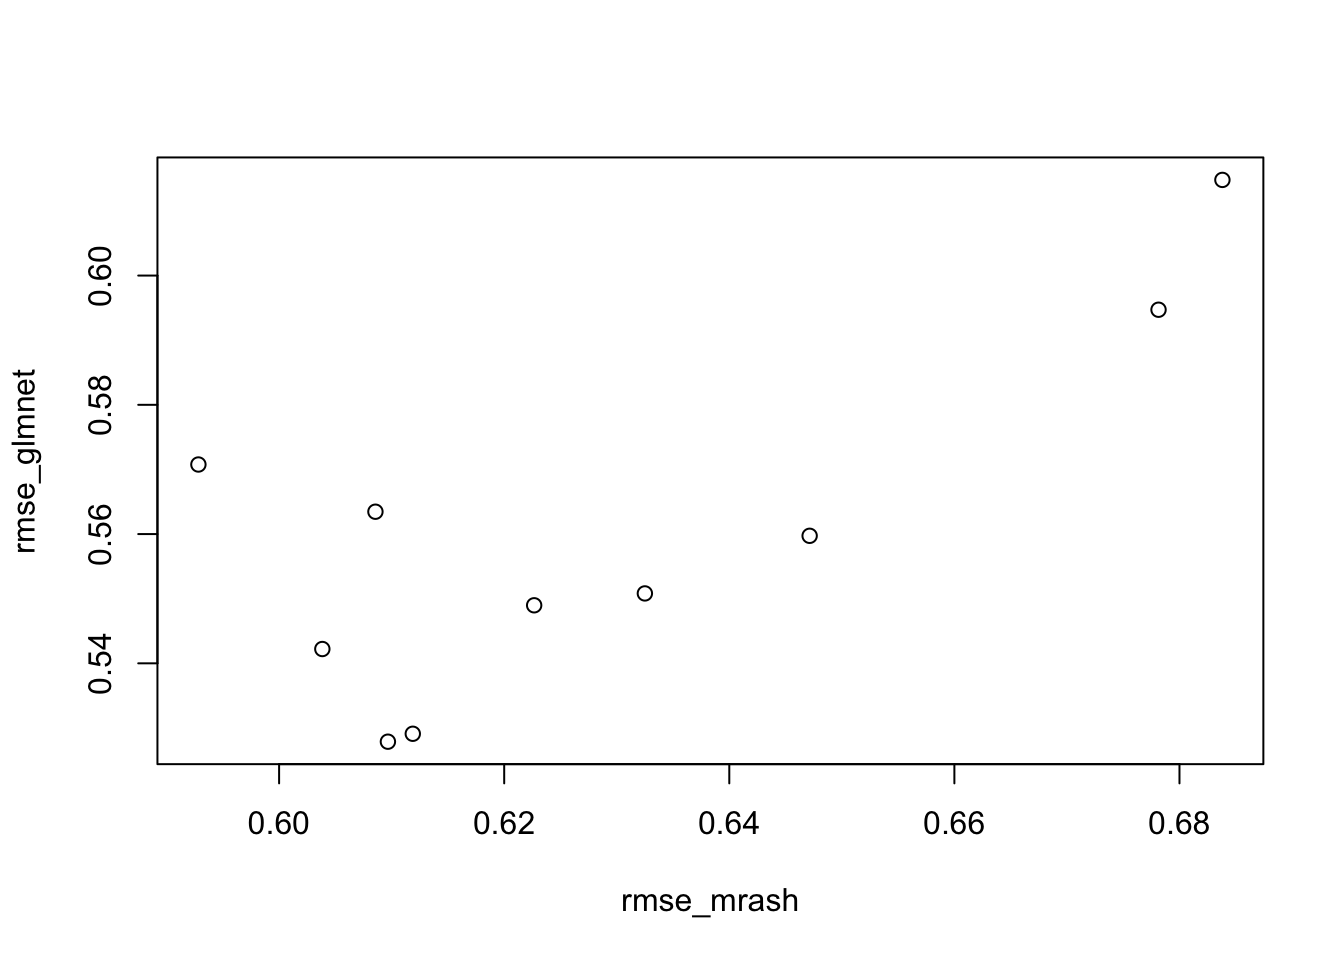
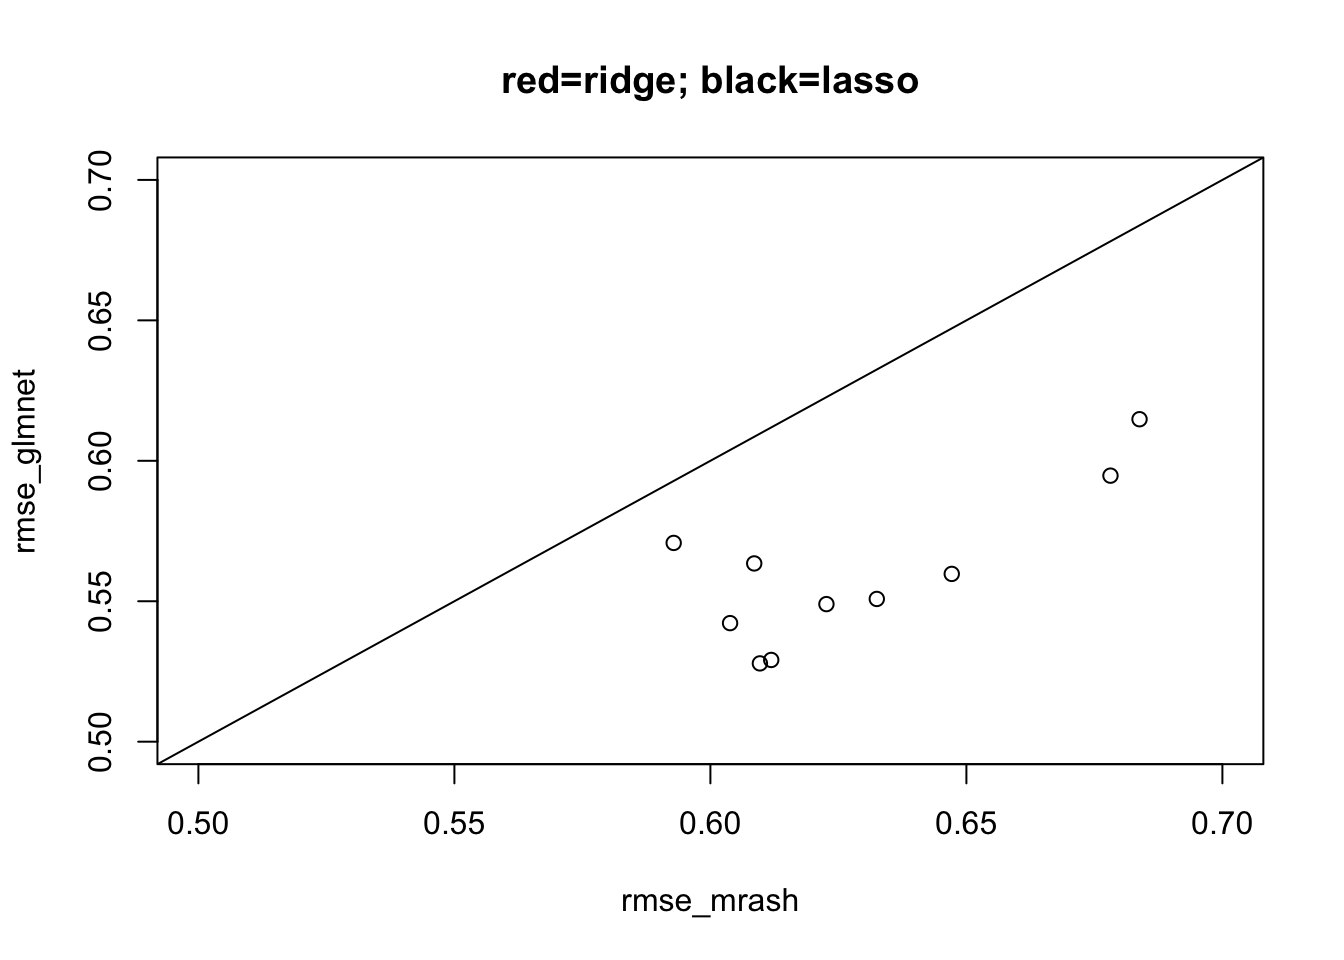
Build site.

diff --git a/docs/mr_ash_vs_lasso.html b/docs/mr_ash_vs_lasso.html
@@ -401,7 +401,7 @@ div.tocify {
 <div class="tab-content">
 <div id="summary" class="tab-pane fade in active">
 <p>
-<strong>Last updated:</strong> 2020-06-12
+<strong>Last updated:</strong> 2020-06-19
 </p>
 <p>
 <strong>Checks:</strong> <span class="glyphicon glyphicon-ok text-success" aria-hidden="true"></span> 7 <span class="glyphicon glyphicon-exclamation-sign text-danger" aria-hidden="true"></span> 0
@@ -492,16 +492,16 @@ This reproducible <a href="http://rmarkdown.rstudio.com">R Markdown</a> analysis
 <div class="panel panel-default">
 <div class="panel-heading">
 <p class="panel-title">
-<a data-toggle="collapse" data-parent="#workflowr-checks" href="#strongRepositoryversionstrongahrefhttpsgithubcomstephens999misctree94bd508454ee1f81288ac05297880aae652a5314targetblank94bd508a"> <span class="glyphicon glyphicon-ok text-success" aria-hidden="true"></span> <strong>Repository version:</strong> <a href="https://github.com/stephens999/misc/tree/94bd508454ee1f81288ac05297880aae652a5314" target="_blank">94bd508</a> </a>
+<a data-toggle="collapse" data-parent="#workflowr-checks" href="#strongRepositoryversionstrongahrefhttpsgithubcomstephens999misctreef8037ebc03f8b09bd3cfd9d856967dafde4bf586targetblankf8037eba"> <span class="glyphicon glyphicon-ok text-success" aria-hidden="true"></span> <strong>Repository version:</strong> <a href="https://github.com/stephens999/misc/tree/f8037ebc03f8b09bd3cfd9d856967dafde4bf586" target="_blank">f8037eb</a> </a>
 </p>
 </div>
[2 lines of base64/hex data omitted]
 <div class="panel-body">
 <p>
 Great! You are using Git for version control. Tracking code development and connecting the code version to the results is critical for reproducibility.
 </p>
 <p>
-The results in this page were generated with repository version <a href="https://github.com/stephens999/misc/tree/94bd508454ee1f81288ac05297880aae652a5314" target="_blank">94bd508</a>. See the <em>Past versions</em> tab to see a history of the changes made to the R Markdown and HTML files.
+The results in this page were generated with repository version <a href="https://github.com/stephens999/misc/tree/f8037ebc03f8b09bd3cfd9d856967dafde4bf586" target="_blank">f8037eb</a>. See the <em>Past versions</em> tab to see a history of the changes made to the R Markdown and HTML files.
 </p>
 <p>
 Note that you need to be careful to ensure that all relevant files for the analysis have been committed to Git prior to generating the results (you can use <code>wflow_publish</code> or <code>wflow_git_commit</code>). workflowr only checks the R Markdown file, but you know if there are other scripts or data files that it depends on. Below is the status of the Git repository when the results were generated:
@@ -514,6 +514,7 @@ Ignored files:
     Ignored:    analysis/.RData
     Ignored:    analysis/.Rhistory
     Ignored:    analysis/ALStruct_cache/
+    Ignored:    analysis/figure/
     Ignored:    data/.Rhistory
     Ignored:    data/pbmc/
 
@@ -540,6 +541,7 @@ Untracked files:
     Untracked:  analysis/mash_bhat_z.Rmd
     Untracked:  analysis/mash_ieqtl_permutations.Rmd
     Untracked:  analysis/mixsqp.Rmd
+    Untracked:  analysis/mr.ash_lasso_init.Rmd
     Untracked:  analysis/mr.mash.test.Rmd
     Untracked:  analysis/mr_ash_modular.Rmd
     Untracked:  analysis/mr_ash_parameterization.Rmd
@@ -552,6 +554,7 @@ Untracked files:
     Untracked:  analysis/qrnotes.txt
     Untracked:  analysis/ridge_iterative_02.Rmd
     Untracked:  analysis/ridge_iterative_splitting.Rmd
+    Untracked:  analysis/samps/
     Untracked:  analysis/sc_bimodal.Rmd
     Untracked:  analysis/shrinkage_comparisons_changepoints.Rmd
     Untracked:  analysis/susie_en.Rmd
@@ -689,6 +692,40 @@ Message
 Rmd
 </td>
 <td>
+<a href="https://github.com/stephens999/misc/blob/f8037ebc03f8b09bd3cfd9d856967dafde4bf586/analysis/mr_ash_vs_lasso.Rmd" target="_blank">f8037eb</a>
+</td>
+<td>
+Matthew Stephens
+</td>
+<td>
+2020-06-19
+</td>
+<td>
+workflowr::wflow_publish(“mr_ash_vs_lasso.Rmd”)
+</td>
+</tr>
+<tr>
+<td>
+html
+</td>
+<td>
+<a href="https://rawcdn.githack.com/stephens999/misc/c94d7bf5d2078f585efbf80e2e7b04ac58451559/docs/mr_ash_vs_lasso.html" target="_blank">c94d7bf</a>
+</td>
+<td>
+Matthew Stephens
+</td>
+<td>
+2020-06-12
+</td>
+<td>
+Build site.
+</td>
+</tr>
+<tr>
+<td>
+Rmd
+</td>
+<td>
 <a href="https://github.com/stephens999/misc/blob/94bd508454ee1f81288ac05297880aae652a5314/analysis/mr_ash_vs_lasso.Rmd" target="_blank">94bd508</a>
 </td>
 <td>
@@ -714,7 +751,7 @@ library(&quot;glmnet&quot;)</code></pre>
 <pre><code>Loaded glmnet 3.0-2</code></pre>
 <div id="introduction" class="section level2">
 <h2>Introduction</h2>
-<p>This is to illustrate a setting where Fabio Morgante found lasso to work better than mr.ash. The simulation is based on his set-up, and then simplified.</p>
+<p>This is to illustrate a setting where Fabio Morgante found lasso to work better than mr.ash. The simulation is based on his set-up, and then simplified. (Note that I have set the columns of <span class="math inline">\(X\)</span> to have norm approximately 1 to make connections with the mr.ash paper easier.)</p>
 <pre class="r"><code>  set.seed(123)
   n &lt;- 500
   p &lt;- 1000
@@ -723,11 +760,11 @@ library(&quot;glmnet&quot;)</code></pre>
   nrep = 10
   rmse_mrash = rep(0,nrep)
   rmse_glmnet = rep(0,nrep)
+  rmse_ridge = rep(0,nrep)
   
   for(i in 1:nrep){
     sim=list()
-    sim$X =  matrix(rnorm(n*p),nrow=n)
-  
+    sim$X =  matrix(rnorm(n*p,sd=1),nrow=n)
     B &lt;- rep(0,p)
     causal_variables &lt;- sample(x=(1:p), size=p_causal)
     B[causal_variables] &lt;- rnorm(n=p_causal, mean=0, sd=1)
@@ -736,19 +773,229 @@ library(&quot;glmnet&quot;)</code></pre>
     sim$Y = sim$X %*% sim$B
     E = rnorm(n,sd = sqrt((1-pve)/(pve))*sd(sim$Y))
     sim$Y = sim$Y + E
-  
+      
     fit_mrash &lt;- mr.ash.alpha::mr.ash(sim$X, sim$Y,standardize = FALSE)
 
     fit_glmnet &lt;- cv.glmnet(x=sim$X, y=sim$Y, family=&quot;gaussian&quot;, alpha=1, standardize=FALSE)
-  
+    #fit_ridge &lt;- cv.glmnet(x=sim$X, y=sim$Y, family=&quot;gaussian&quot;, alpha=0, standardize=FALSE)
    
     rmse_mrash[i] = sqrt(mean((sim$B-fit_mrash$beta)^2))
     rmse_glmnet[i] = sqrt(mean((sim$B-coef(fit_glmnet)[-1])^2))
-    
+    #rmse_ridge[i] = sqrt(mean((sim$B-coef(fit_ridge)[-1])^2))
   }
   
-  plot(rmse_mrash,rmse_glmnet)</code></pre>
+  plot(rmse_mrash,rmse_glmnet, xlim=c(0.5,0.7), ylim=c(0.5,0.7), main=&quot;red=ridge; black=lasso&quot;)
+  #points(rmse_mrash,rmse_ridge,col=2)
+  abline(a=0,b=1)</code></pre>
 <p><img src="figure/mr_ash_vs_lasso.Rmd/unnamed-chunk-2-1.png" width="672" style="display: block; margin: auto;" /></p>
+<p>
+<button type="button" class="btn btn-default btn-xs btn-workflowr btn-workflowr-fig" data-toggle="collapse" data-target="#fig-unnamed-chunk-2-1">
+Past versions of unnamed-chunk-2-1.png
+</button>
+</p>
+<div id="fig-unnamed-chunk-2-1" class="collapse">
+<div class="table-responsive">
+<table class="table table-condensed table-hover">
+<thead>
+<tr>
+<th>
+Version
+</th>
+<th>
+Author
+</th>
+<th>
+Date
+</th>
+</tr>
+</thead>
+<tbody>
+<tr>
+<td>
+<a href="https://github.com/stephens999/misc/blob/c94d7bf5d2078f585efbf80e2e7b04ac58451559/docs/figure/mr_ash_vs_lasso.Rmd/unnamed-chunk-2-1.png" target="_blank">c94d7bf</a>
+</td>
+<td>
+Matthew Stephens
+</td>
+<td>
+2020-06-12
+</td>
+</tr>
+</tbody>
+</table>
+</div>
+</div>
+</div>
+<div id="attempt-to-find-better-initialization" class="section level1">
+<h1>Attempt to find better initialization</h1>
+<p>Since the resut is so consistently that mr.ash is worse than lasso here, I’ll initially just focus on the last of the simulations above.</p>
+<p>The first thing I wanted to try was fixing the prior to the “true” value. I was suprised to find I actually needed to use the true beta to initialize in order to get good error. And the initialization really changes things, even with true fixed prior.</p>
+<pre class="r"><code>s2 = (sqrt((1-pve)/(pve))*sd(sim$Y))^2
+
+fit_trueg &lt;- mr.ash.alpha::mr.ash(sim$X, sim$Y,standardize = FALSE, sa2 = c(0,1/s2), pi=c(0.5,0.5), sigma2 = s2, update.pi=FALSE, update.sigma2 = FALSE, intercept=FALSE,min.iter=100)</code></pre>
+<pre><code>Warning in mr.ash.alpha::mr.ash(sim$X, sim$Y, standardize = FALSE, sa2 = c(0, :
+The mixture proportion associated with the largest prior variance is greater
+than zero; this indicates that the model fit could be improved by using a larger
+setting of the prior variance. Consider increasing the range of the variances
+&quot;sa2&quot;.</code></pre>
+<pre class="r"><code>fit_trueg.inittrueb &lt;- mr.ash.alpha::mr.ash(sim$X, sim$Y,standardize = FALSE, sa2 = c(0,1/s2), beta.init=sim$B, pi=c(0.5,0.5), sigma2 = s2, update.pi=FALSE, update.sigma2 = FALSE, intercept = FALSE)</code></pre>
+<pre><code>Warning in mr.ash.alpha::mr.ash(sim$X, sim$Y, standardize = FALSE, sa2 = c(0, :
+The mixture proportion associated with the largest prior variance is greater
+than zero; this indicates that the model fit could be improved by using a larger
+setting of the prior variance. Consider increasing the range of the variances
+&quot;sa2&quot;.</code></pre>
+<pre class="r"><code>sqrt(mean((sim$B-fit_trueg$beta)^2))</code></pre>
+<pre><code>[1] 0.5782072</code></pre>
+<pre class="r"><code>sqrt(mean((sim$B-fit_trueg.inittrueb$beta)^2))</code></pre>
+<pre><code>[1] 0.441107</code></pre>
+<pre class="r"><code>plot(fit_trueg$beta, fit_trueg.inittrueb$beta)</code></pre>
+<p><img src="figure/mr_ash_vs_lasso.Rmd/unnamed-chunk-3-1.png" width="672" style="display: block; margin: auto;" /></p>
+<p>Reassuringly, the better solution also has better objective (but only slightly).</p>
+<pre class="r"><code>min(fit_trueg$varobj)</code></pre>
+<pre><code>[1] 2195.987</code></pre>
+<pre class="r"><code>min(fit_trueg.inittrueb$varobj)</code></pre>
+<pre><code>[1] 2184.777</code></pre>
+<p>Try running longer. Note that now the worse solution has better objective… unfortunate! One caveat is that, after discussion, it seems that the computation of the variational objective may be unreliable for fixed g.</p>
+<pre class="r"><code>fit_trueg_long &lt;- mr.ash.alpha::mr.ash(sim$X, sim$Y,standardize = FALSE, sa2 = c(0,1/s2), pi=c(0.5,0.5), sigma2 = s2, update.pi=FALSE, update.sigma2 = FALSE, intercept=FALSE,min.iter=1000)</code></pre>
+<pre><code>Warning in mr.ash.alpha::mr.ash(sim$X, sim$Y, standardize = FALSE, sa2 = c(0, :
+The mixture proportion associated with the largest prior variance is greater
+than zero; this indicates that the model fit could be improved by using a larger
+setting of the prior variance. Consider increasing the range of the variances
+&quot;sa2&quot;.</code></pre>
+<pre class="r"><code>fit_trueg.inittrueb_long &lt;- mr.ash.alpha::mr.ash(sim$X, sim$Y,standardize = FALSE, sa2 = c(0,1/s2), beta.init=sim$B, pi=c(0.5,0.5), sigma2 = s2, update.pi=FALSE, update.sigma2 = FALSE, intercept = FALSE,min.iter=1000)</code></pre>
+<pre><code>Warning in mr.ash.alpha::mr.ash(sim$X, sim$Y, standardize = FALSE, sa2 = c(0, :
+The mixture proportion associated with the largest prior variance is greater
+than zero; this indicates that the model fit could be improved by using a larger
+setting of the prior variance. Consider increasing the range of the variances
+&quot;sa2&quot;.</code></pre>
+<pre class="r"><code>min(fit_trueg_long$varobj)</code></pre>
+<pre><code>[1] 2161.257</code></pre>
+<pre class="r"><code>min(fit_trueg.inittrueb_long$varobj)</code></pre>
+<pre><code>[1] 2176.406</code></pre>
+<pre class="r"><code>sqrt(mean((sim$B-fit_trueg_long$beta)^2))</code></pre>
+<pre><code>[1] 0.5794779</code></pre>
+<pre class="r"><code>sqrt(mean((sim$B-fit_trueg.inittrueb_long$beta)^2))</code></pre>
+<pre><code>[1] 0.4648454</code></pre>
+<pre class="r"><code>sqrt(mean((sim$B-coef(fit_glmnet)[-1])^2))</code></pre>
+<pre><code>[1] 0.5278743</code></pre>
+<pre class="r"><code>sqrt(mean((sim$B-fit_mrash$beta)^2))</code></pre>
+<pre><code>[1] 0.6096672</code></pre>
+</div>
+<div id="try-to-initialize-based-on-lasso-fit" class="section level1">
+<h1>Try to initialize based on Lasso fit</h1>
+<p>Here I investigate some ideas to try to get the mr.ash prior to fit the lasso prior.</p>
+<p>First I will compute the values of <span class="math inline">\(\tilde{b}\)</span>, which, algorithmically, are the values of <span class="math inline">\(b\)</span> before shrinkage (soft-thresholding) is applied to them. I’m going to look at the shrinkage factors, which I define to be <span class="math inline">\(f:=b/\tilde{b}\)</span>.</p>
+<pre class="r"><code>y = sim$Y
+X = sim$X
+d = colSums(X^2)
+b = coef(fit_glmnet)[-1]
+r = y-sim$X %*% b - coef(fit_glmnet)[1]
+btilde = drop((t(X) %*% r)/d) + b
+
+plot(btilde,b, main=&quot;btilde vs b from lasso&quot;)</code></pre>
+<p><img src="figure/mr_ash_vs_lasso.Rmd/unnamed-chunk-6-1.png" width="672" style="display: block; margin: auto;" /></p>
+<pre class="r"><code>hist(b/btilde,nclass=100, main = &quot;histogram of shrinkage factors from lasso fit&quot;)</code></pre>
+<p><img src="figure/mr_ash_vs_lasso.Rmd/unnamed-chunk-6-2.png" width="672" style="display: block; margin: auto;" /></p>
+<p>We want to try to select a prior such that the mr ash shrinkage operator is similar to the lasso. Intuitively that will ensure that the first mr ash update step does not change the solution “very much”. Ideally one might select <span class="math inline">\(g\)</span> to minimize <span class="math inline">\(b-S_g(btilde)\)</span>.</p>
+<p>THe mr ash shrinkage operator is the average of many ridge regression shrinkage operators. In ridge regression, with prior sa2 s2 the shrinkage factor for a variable <span class="math inline">\(j\)</span> is <span class="math inline">\(f_j = sa2/(sa2 + 1/d_j)\)</span>, where <span class="math inline">\(d_j = x_j&#39;x_j\)</span>.</p>
+<p>Rearranging, and writing the shrinkage factor as <span class="math inline">\(f\)</span>, <span class="math inline">\((d sa2 + 1) f_j = d_j sa2\)</span> or <span class="math display">\[sa2 = f_j/[d_j(1-f)]\]</span></p>
+<p>To get a quick approximation of what <span class="math inline">\(g\)</span> might be we take the empirical values for sa2 computed in this way from the shrinkage factors. To give a grid I then cluster these empirical values into quantiles and give them equal weights in the prior. I deal separately with shrinkage factor 0.</p>
+<pre class="r"><code>f = b/btilde
+sa2 = f/(d*(1-f))
+hist(sa2)</code></pre>
+<p><img src="figure/mr_ash_vs_lasso.Rmd/unnamed-chunk-7-1.png" width="672" style="display: block; margin: auto;" /></p>
+<pre class="r"><code>pi0 = mean(sa2==0)
+sa2 = sa2[sa2!=0] # deal with zeros separately
+
+sa2 = as.vector(quantile(sa2,seq(0,1,length=20)))
+sa2 = c(0,sa2)
+w = c(pi0, (1-pi0)*rep(1/20,20))</code></pre>
+<p>Here I write code to compute posterior mean under normal means model with given prior variances and data variances. (Note the prior variances here not scaled by data variances.)</p>
+<pre class="r"><code>softmax = function(x){
+    x = x- max(x)
+    y = exp(x)
+    return(y/sum(y))
+}
+
+postmean = function(b, w, prior_variances, data_variance){
+  total_var = prior_variances + data_variance
+  loglik = -0.5* log(total_var) + dnorm(outer(sqrt(1/total_var),b,FUN=&quot;*&quot;),log=TRUE) # K by p matrix
+  log_post = loglik + log(w)
+  phi = apply(log_post, 2, softmax) 
+  mu = outer(prior_variances/total_var,b)
+  return(colSums(phi*mu))
+}</code></pre>
+<p>Now check if our prior reproduces the lasso shrinkage approximately. It does!</p>
+<pre class="r"><code>plot(btilde,b, main=&quot;comparison of mr.ash shrinkage (red) with soft thresholding&quot;)
+
+lines(sort(btilde),postmean(sort(btilde), w, prior_variances = s2*sa2, data_variance = s2/median(d)),col=2,lwd=2)</code></pre>
+<p><img src="figure/mr_ash_vs_lasso.Rmd/unnamed-chunk-9-1.png" width="672" style="display: block; margin: auto;" /></p>
+<p>Somewhat unexpectedly though, initializing here has no effect</p>
+<pre class="r"><code>fit_mrash = mr.ash.alpha::mr.ash(sim$X, sim$Y,standardize = FALSE)
+fit_mrash_lassoinit &lt;- mr.ash.alpha::mr.ash(sim$X, sim$Y,standardize = FALSE, beta.init = b, sa2 = sa2, pi=w, sigma2=s2)</code></pre>
+<pre><code>Warning in mr.ash.alpha::mr.ash(sim$X, sim$Y, standardize = FALSE, beta.init
+= b, : The mixture proportion associated with the largest prior variance is
+greater than zero; this indicates that the model fit could be improved by using
+a larger setting of the prior variance. Consider increasing the range of the
+variances &quot;sa2&quot;.</code></pre>
+<pre class="r"><code>plot(fit_mrash_lassoinit$beta,fit_mrash$beta)</code></pre>
+<p><img src="figure/mr_ash_vs_lasso.Rmd/unnamed-chunk-10-1.png" width="672" style="display: block; margin: auto;" /></p>
+<pre class="r"><code>sqrt(mean((sim$B-fit_mrash_lassoinit$beta)^2))</code></pre>
+<pre><code>[1] 0.6073579</code></pre>
+<pre class="r"><code>sqrt(mean((sim$B-fit_mrash$beta)^2))</code></pre>
+<pre><code>[1] 0.6096672</code></pre>
+<pre class="r"><code>min(fit_mrash$varobj)</code></pre>
+<pre><code>[1] 2210.826</code></pre>
+<pre class="r"><code>min(fit_mrash_lassoinit$varobj)</code></pre>
+<pre><code>[1] 2210.982</code></pre>
+<p>Plot the learned mr.mash shrinkage operators:</p>
+<pre class="r"><code>plot(btilde,b, main=&quot;comparison of mr.ash shrinkage (red) with soft thresholding&quot;)
+lines(sort(btilde),postmean(sort(btilde), as.vector(fit_mrash$pi), prior_variances = fit_mrash$sigma2*fit_mrash$data$sa2, data_variance = fit_mrash$sigma2/median(d)),col=2,lwd=2)
+
+lines(sort(btilde),postmean(sort(btilde), as.vector(fit_mrash_lassoinit$pi), prior_variances = fit_mrash_lassoinit$sigma2*fit_mrash_lassoinit$data$sa2, data_variance = fit_mrash_lassoinit$sigma2/median(d)),col=3,lwd=2)</code></pre>
+<p><img src="figure/mr_ash_vs_lasso.Rmd/unnamed-chunk-11-1.png" width="672" style="display: block; margin: auto;" /></p>
+<p>Interestingly the fitted pi from lasso intialization is almost identical to the one used in lasso. So actually the prior is the same! It is the sigma2 that must be different….</p>
+<pre class="r"><code>plot(fit_mrash_lassoinit$pi,w)</code></pre>
+<p><img src="figure/mr_ash_vs_lasso.Rmd/unnamed-chunk-12-1.png" width="672" style="display: block; margin: auto;" /></p>
+<p>So here I fix sigma2:</p>
+<pre class="r"><code>fit_mrash_lassoinit_fixs2 &lt;- mr.ash.alpha::mr.ash(sim$X, sim$Y,standardize = FALSE, beta.init = b, sa2 = sa2, pi=w, sigma2=s2, update.sigma2 = FALSE)</code></pre>
+<pre><code>Warning in mr.ash.alpha::mr.ash(sim$X, sim$Y, standardize = FALSE, beta.init
+= b, : The mixture proportion associated with the largest prior variance is
+greater than zero; this indicates that the model fit could be improved by using
+a larger setting of the prior variance. Consider increasing the range of the
+variances &quot;sa2&quot;.</code></pre>
+<pre class="r"><code>sqrt(mean((sim$B-fit_mrash_lassoinit_fixs2$beta)^2))</code></pre>
+<pre><code>[1] 0.4895238</code></pre>
+<p>And now initialize from that fit:</p>
+<pre class="r"><code>fit_mrash_lassoinit_relaxs2 &lt;- mr.ash.alpha::mr.ash(sim$X, sim$Y,standardize = FALSE, beta.init = fit_mrash_lassoinit_fixs2$beta, sa2 = fit_mrash_lassoinit_fixs2$data$sa2, pi=fit_mrash_lassoinit_fixs2$pi, sigma2=fit_mrash_lassoinit_fixs2$sigma2)</code></pre>
+<pre><code>Warning in mr.ash.alpha::mr.ash(sim$X, sim$Y, standardize = FALSE, beta.init
+= fit_mrash_lassoinit_fixs2$beta, : The mixture proportion associated with the
+largest prior variance is greater than zero; this indicates that the model fit
+could be improved by using a larger setting of the prior variance. Consider
+increasing the range of the variances &quot;sa2&quot;.</code></pre>
+<pre class="r"><code>sqrt(mean((sim$B-fit_mrash_lassoinit_relaxs2$beta)^2))</code></pre>
+<pre><code>[1] 0.5878012</code></pre>
+<pre class="r"><code>min(fit_mrash_lassoinit_relaxs2$varobj)</code></pre>
+<pre><code>[1] 2215.324</code></pre>
+<pre class="r"><code>min(fit_mrash_lassoinit_fixs2$varobj)</code></pre>
+<pre><code>[1] 2464.856</code></pre>
+</div>
+<div id="initializing-from-ridge-regression" class="section level1">
+<h1>Initializing from ridge regression</h1>
+<p>One of the challenges is that the mr ash shrinkage operator is not a special case of lasso. In contrast, the ridge shrinkage operator is a special case. So it is easier to initialize from that.</p>
+<p>Here i wanted to try this.</p>
+<pre class="r"><code>fit_ridge &lt;- cv.glmnet(x=sim$X, y=sim$Y, family=&quot;gaussian&quot;, alpha=0, standardize=FALSE)
+b = coef(fit_ridge)[-1]
+r = y-sim$X %*% b - coef(fit_ridge)[1]
+btilde = drop((t(X) %*% r)/d) + b
+
+plot(btilde,b, main=&quot;btilde vs b from ridge&quot;)
+abline(a=0,b=1)</code></pre>
+<p><img src="figure/mr_ash_vs_lasso.Rmd/unnamed-chunk-15-1.png" width="672" style="display: block; margin: auto;" /></p>
+<pre class="r"><code>hist(b/btilde,nclass=100, main = &quot;histogram of shrinkage factors from ridge fit&quot;)</code></pre>
+<p><img src="figure/mr_ash_vs_lasso.Rmd/unnamed-chunk-15-2.png" width="672" style="display: block; margin: auto;" /></p>
+<pre class="r"><code>sqrt(mean((sim$B-b)^2))</code></pre>
+<pre><code>[1] 0.5908821</code></pre>
 <br>
 <p>
 <button type="button" class="btn btn-default btn-workflowr btn-workflowr-sessioninfo" data-toggle="collapse" data-target="#workflowr-sessioninfo" style="display: block;">
@@ -772,7 +1019,7 @@ attached base packages:
 [1] stats     graphics  grDevices utils     datasets  methods   base     
 
 other attached packages:
-[1] glmnet_3.0-2        Matrix_1.2-18       mr.ash.alpha_0.1-33
+[1] glmnet_3.0-2        Matrix_1.2-18       mr.ash.alpha_0.1-34
 
 loaded via a namespace (and not attached):
  [1] Rcpp_1.0.4.6     knitr_1.28       whisker_0.4      magrittr_1.5    
